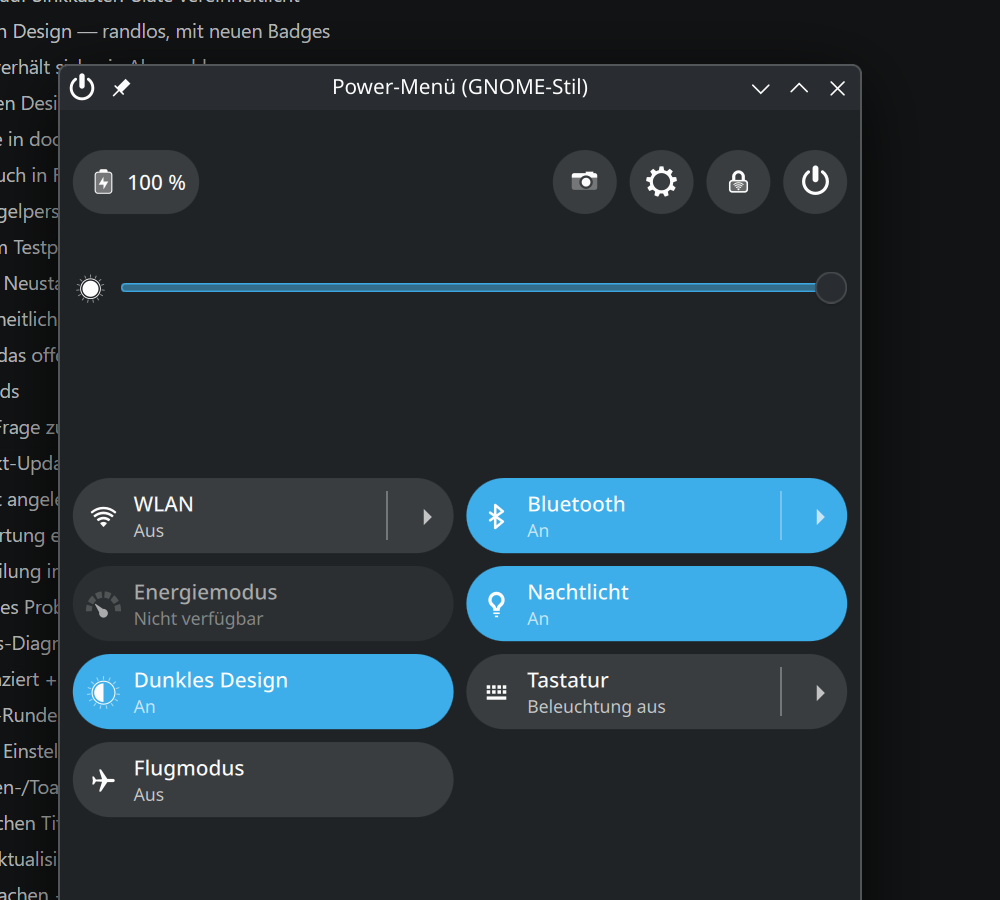
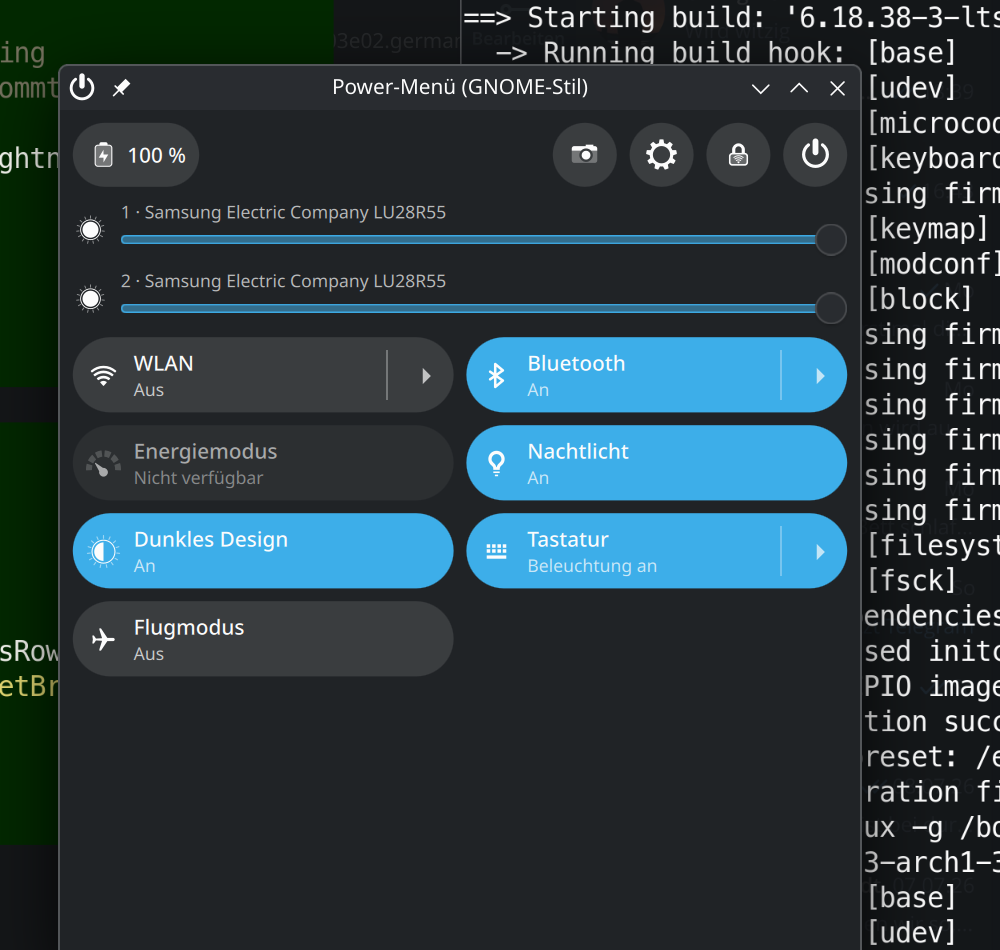
Helligkeit: eigener Regler pro Bildschirm
Displays werden über org.kde.ScreenBrightness.DisplaysDBusNames
enumeriert; bei mehreren Monitoren wird jeder Regler mit dem
Display-Namen beschriftet.

diff --git a/package/contents/ui/FullRepresentation.qml b/package/contents/ui/FullRepresentation.qml
@@ -14,8 +14,8 @@ Item {
     property int batteryPercent: -1
     property int batteryState: 0            // UPower: 1=lädt, 2=entlädt, 4=voll
     property string batteryIcon: "battery-full-symbolic"
-    property int brightness: -1
-    property int brightnessMax: -1
+    property var displayIds: []      // z. B. ["display0", "display1"]
+    property var displayInfo: ({})   // id -> { brightness, max, label }
     property bool wifiOn: false
     property string wifiSsid: ""
     property bool btOn: false
@@ -30,7 +30,6 @@ Item {
     property bool powerMenuOpen: false
     property bool powerModeOpen: false
     property bool keyboardOpen: false
-    property int pendingBrightness: -1
     property int pendingKbdBrightness: -1
 
     readonly property var cfg: Plasmoid.configuration
@@ -49,14 +48,15 @@ Item {
 
     // ---- Befehle ----
     readonly property string qUP: "qdbus6 --system org.freedesktop.UPower /org/freedesktop/UPower/devices/DisplayDevice org.freedesktop.UPower.Device."
-    readonly property string qBright: "qdbus6 org.kde.ScreenBrightness /org/kde/ScreenBrightness/display0 org.kde.ScreenBrightness.Display."
+    readonly property string qBrightRoot: "qdbus6 org.kde.ScreenBrightness /org/kde/ScreenBrightness"
     readonly property string qKbd: "qdbus6 org.kde.Solid.PowerManagement /org/kde/Solid/PowerManagement/Actions/KeyboardBrightnessControl org.kde.Solid.PowerManagement.Actions.KeyboardBrightnessControl."
     readonly property string qProfile: "qdbus6 --system org.freedesktop.UPower.PowerProfiles /org/freedesktop/UPower/PowerProfiles org.freedesktop.UPower.PowerProfiles.ActiveProfile"
     readonly property string qNight: "qdbus6 org.kde.KWin.NightLight /org/kde/KWin/NightLight org.kde.KWin.NightLight.enabled"
 
     readonly property string refreshCmd:
         "echo \"KPWR;BAT|$(" + qUP + "Percentage 2>/dev/null)|$(" + qUP + "State 2>/dev/null)|$(" + qUP + "IconName 2>/dev/null)\";" +
-        "echo \"KPWR;BRIGHT|$(" + qBright + "Brightness 2>/dev/null)|$(" + qBright + "MaxBrightness 2>/dev/null)\";" +
+        "for d in $(" + qBrightRoot + " org.kde.ScreenBrightness.DisplaysDBusNames 2>/dev/null); do " +
+        "echo \"KPWR;DISP|$d|$(" + qBrightRoot + "/$d org.kde.ScreenBrightness.Display.Brightness 2>/dev/null)|$(" + qBrightRoot + "/$d org.kde.ScreenBrightness.Display.MaxBrightness 2>/dev/null)|$(" + qBrightRoot + "/$d org.kde.ScreenBrightness.Display.Label 2>/dev/null)\"; done;" +
         "echo \"KPWR;WIFI|$(LC_ALL=C nmcli radio wifi 2>/dev/null)|$(LC_ALL=C nmcli -t -f active,ssid dev wifi 2>/dev/null | grep '^yes:' | head -n1 | cut -d: -f2-)\";" +
         "echo \"KPWR;BT|$(LC_ALL=C bluetoothctl show 2>/dev/null | grep -m1 'Powered:' | awk '{print $2}')\";" +
         "echo \"KPWR;PROFILE|$(" + qProfile + " 2>/dev/null)\";" +
@@ -102,6 +102,8 @@ Item {
 
     function parseState(out) {
         const lines = out.split("\n")
+        const dispIds = []
+        const dispInfo = {}
         for (let i = 0; i < lines.length; i++) {
             const line = lines[i]
             if (line.indexOf("KPWR;") !== 0) {
@@ -116,9 +118,13 @@ Item {
                     batteryIcon = parts[3]
                 }
                 break
-            case "BRIGHT":
-                brightness = parts[1] ? parseInt(parts[1]) : -1
-                brightnessMax = parts[2] ? parseInt(parts[2]) : -1
+            case "DISP":
+                dispIds.push(parts[1])
+                dispInfo[parts[1]] = {
+                    brightness: parts[2] ? parseInt(parts[2]) : -1,
+                    max: parts[3] ? parseInt(parts[3]) : -1,
+                    label: parts.slice(4).join("|")
+                }
                 break
             case "WIFI":
                 wifiOn = parts[1] === "enabled"
@@ -146,6 +152,14 @@ Item {
                 airplaneOn = total > 0 && blocked === total
                 break
             }
+        }
+        if (dispIds.length > 0) {
+            // Repeater-Modell nur ersetzen, wenn sich die Display-Liste
+            // wirklich ändert, sonst würde ein laufender Slider-Drag abbrechen
+            if (JSON.stringify(dispIds) !== JSON.stringify(displayIds)) {
+                displayIds = dispIds
+            }
+            displayInfo = dispInfo
         }
     }
 
@@ -199,16 +213,6 @@ Item {
         running: plasmoidItem ? plasmoidItem.expanded : false
         repeat: true
         onTriggered: fullRoot.refresh()
-    }
-
-    Timer {
-        id: brightnessTimer
-        interval: 150
-        onTriggered: {
-            if (fullRoot.pendingBrightness >= 0) {
-                fullRoot.exec(fullRoot.qBright + "SetBrightness " + fullRoot.pendingBrightness + " 1")
-            }
-        }
     }
 
     Timer {
@@ -400,35 +404,81 @@ Item {
             }
         }
 
-        // ================= Helligkeit =================
-        RowLayout {
-            visible: fullRoot.cfg.showBrightness && fullRoot.brightnessMax > 0
-            Layout.fillWidth: true
-            spacing: Kirigami.Units.smallSpacing * 2
+        // ================= Helligkeit (ein Regler pro Bildschirm) =================
+        Repeater {
+            model: fullRoot.displayIds
 
-            Kirigami.Icon {
-                implicitWidth: Kirigami.Units.iconSizes.smallMedium
-                implicitHeight: implicitWidth
-                source: "brightness-high-symbolic"
-                color: Kirigami.Theme.textColor
-            }
+            RowLayout {
+                id: brightnessRow
 
-            PC3.Slider {
-                id: brightnessSlider
+                required property string modelData
+                required property int index
+                readonly property var info: fullRoot.displayInfo[modelData]
+                property int pending: -1
+
+                visible: fullRoot.cfg.showBrightness && info !== undefined && info.max > 0
                 Layout.fillWidth: true
-                from: 0
-                to: fullRoot.brightnessMax > 0 ? fullRoot.brightnessMax : 100
-                stepSize: 1
-                onMoved: {
-                    fullRoot.pendingBrightness = Math.round(value)
-                    brightnessTimer.restart()
+                spacing: Kirigami.Units.smallSpacing * 2
+
+                Kirigami.Icon {
+                    Layout.alignment: Qt.AlignVCenter
+                    implicitWidth: Kirigami.Units.iconSizes.smallMedium
+                    implicitHeight: implicitWidth
+                    source: "brightness-high-symbolic"
+                    color: Kirigami.Theme.textColor
                 }
 
-                Binding on value {
-                    // Hängt bewusst auch von brightnessMax ab, damit die Binding
-                    // neu auswertet, sobald "to" seinen echten Wert bekommt
-                    value: Math.min(fullRoot.brightness, fullRoot.brightnessMax)
-                    when: !brightnessSlider.pressed && fullRoot.brightness >= 0
+                ColumnLayout {
+                    Layout.fillWidth: true
+                    spacing: 0
+
+                    PC3.Label {
+                        Layout.fillWidth: true
+                        visible: fullRoot.displayIds.length > 1
+                        text: (brightnessRow.index + 1) + " · "
+                              + (brightnessRow.info && brightnessRow.info.label !== ""
+                                 ? brightnessRow.info.label
+                                 : "Bildschirm")
+                        font: Kirigami.Theme.smallFont
+                        opacity: 0.7
+                        elide: Text.ElideRight
+                    }
+
+                    PC3.Slider {
+                        id: dispSlider
+                        Layout.fillWidth: true
+                        from: 0
+                        to: brightnessRow.info && brightnessRow.info.max > 0
+                            ? brightnessRow.info.max : 100
+                        stepSize: 1
+                        onMoved: {
+                            brightnessRow.pending = Math.round(value)
+                            dispTimer.restart()
+                        }
+
+                        Binding on value {
+                            // Hängt bewusst auch vom Maximum ab, damit die Binding
+                            // neu auswertet, sobald "to" seinen echten Wert bekommt
+                            value: brightnessRow.info
+                                   ? Math.min(brightnessRow.info.brightness, brightnessRow.info.max)
+                                   : 0
+                            when: !dispSlider.pressed
+                                  && brightnessRow.info !== undefined
+                                  && brightnessRow.info.brightness >= 0
+                        }
+                    }
+                }
+
+                Timer {
+                    id: dispTimer
+                    interval: 150
+                    onTriggered: {
+                        if (brightnessRow.pending >= 0) {
+                            fullRoot.exec(fullRoot.qBrightRoot + "/" + brightnessRow.modelData
+                                          + " org.kde.ScreenBrightness.Display.SetBrightness "
+                                          + brightnessRow.pending + " 1")
+                        }
+                    }
                 }
             }
         }

diff --git a/README.md b/README.md
@@ -13,7 +13,8 @@ Systemeinstellungen · Bildschirm sperren · Power-Knopf
 **Power-Menü:** Bereitschaft · Neustart… · Ausschalten… · Abmelden… ·
 Benutzer wechseln… (die „…“-Einträge zeigen den Plasma-Bestätigungsdialog)
 
-**Regler:** Bildschirmhelligkeit (org.kde.ScreenBrightness)
+**Regler:** Bildschirmhelligkeit – ein Regler pro erkanntem Bildschirm
+(org.kde.ScreenBrightness), bei mehreren Monitoren mit Namensbeschriftung
 
 **Kacheln:** WLAN (nmcli) · Bluetooth (bluetoothctl) · Energiemodus
 (power-profiles-daemon, Pfeil öffnet Profilauswahl) · Nachtlicht (KWin) ·
@@ -40,5 +41,5 @@ Danach: Rechtsklick aufs Panel → „Miniprogramme hinzufügen…“ →
   Ohne den Dienst ist die Kachel ausgegraut.
 - **Benutzer wechseln** nutzt `org.freedesktop.DisplayManager` (SDDM/LightDM).
 - **Flugmodus** blockiert alle Funkgeräte per `rfkill block all`.
-- Der Helligkeitsregler steuert `display0` (erstes Display von
-  org.kde.ScreenBrightness).
+- Die Helligkeitsregler steuern alle von org.kde.ScreenBrightness
+  gemeldeten Displays einzeln (intern wie extern/DDC).